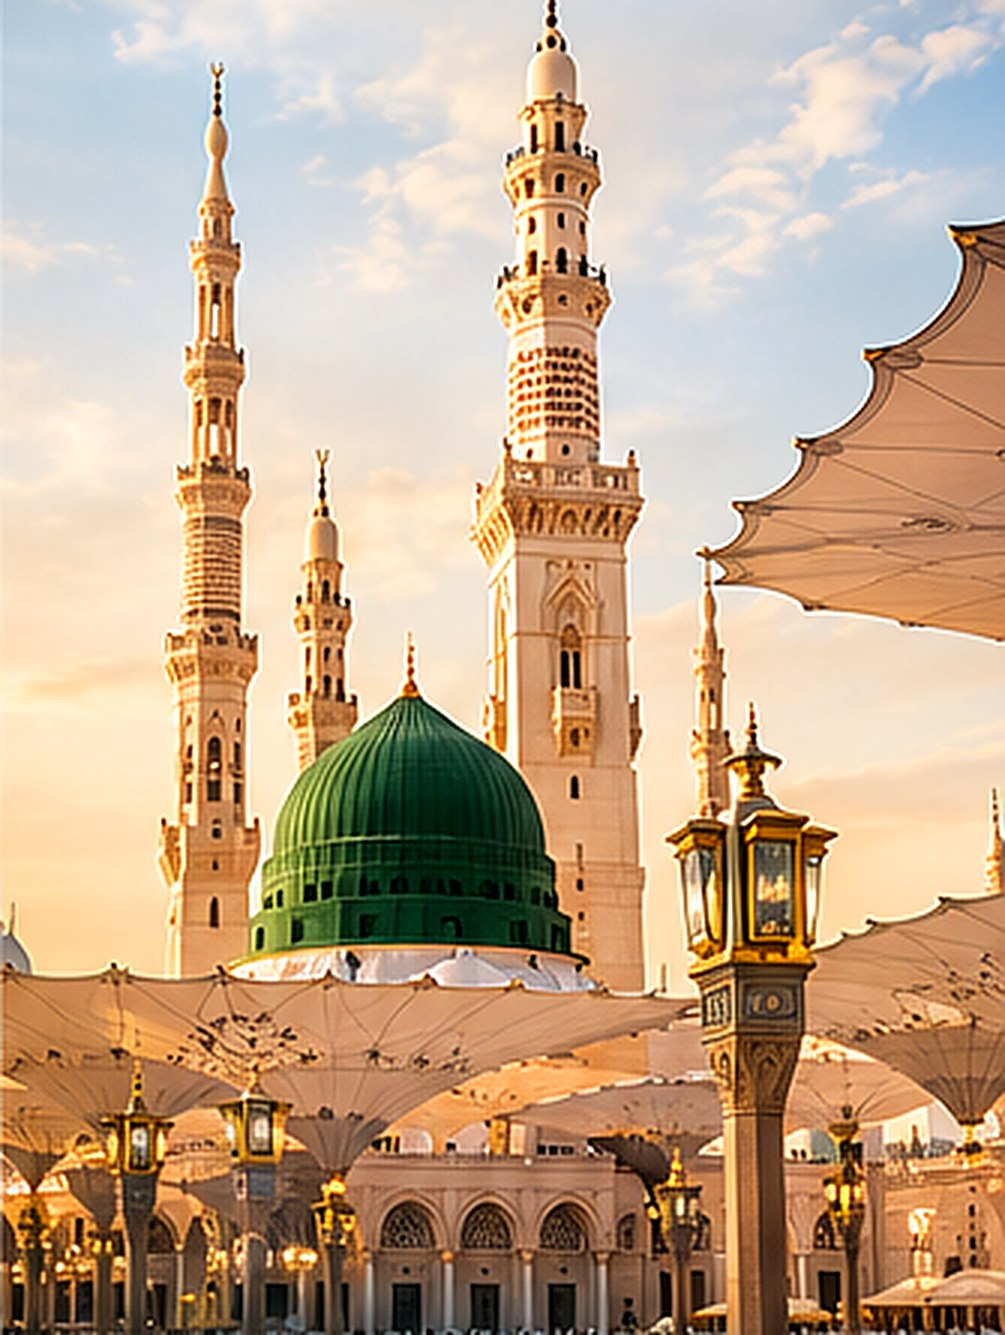
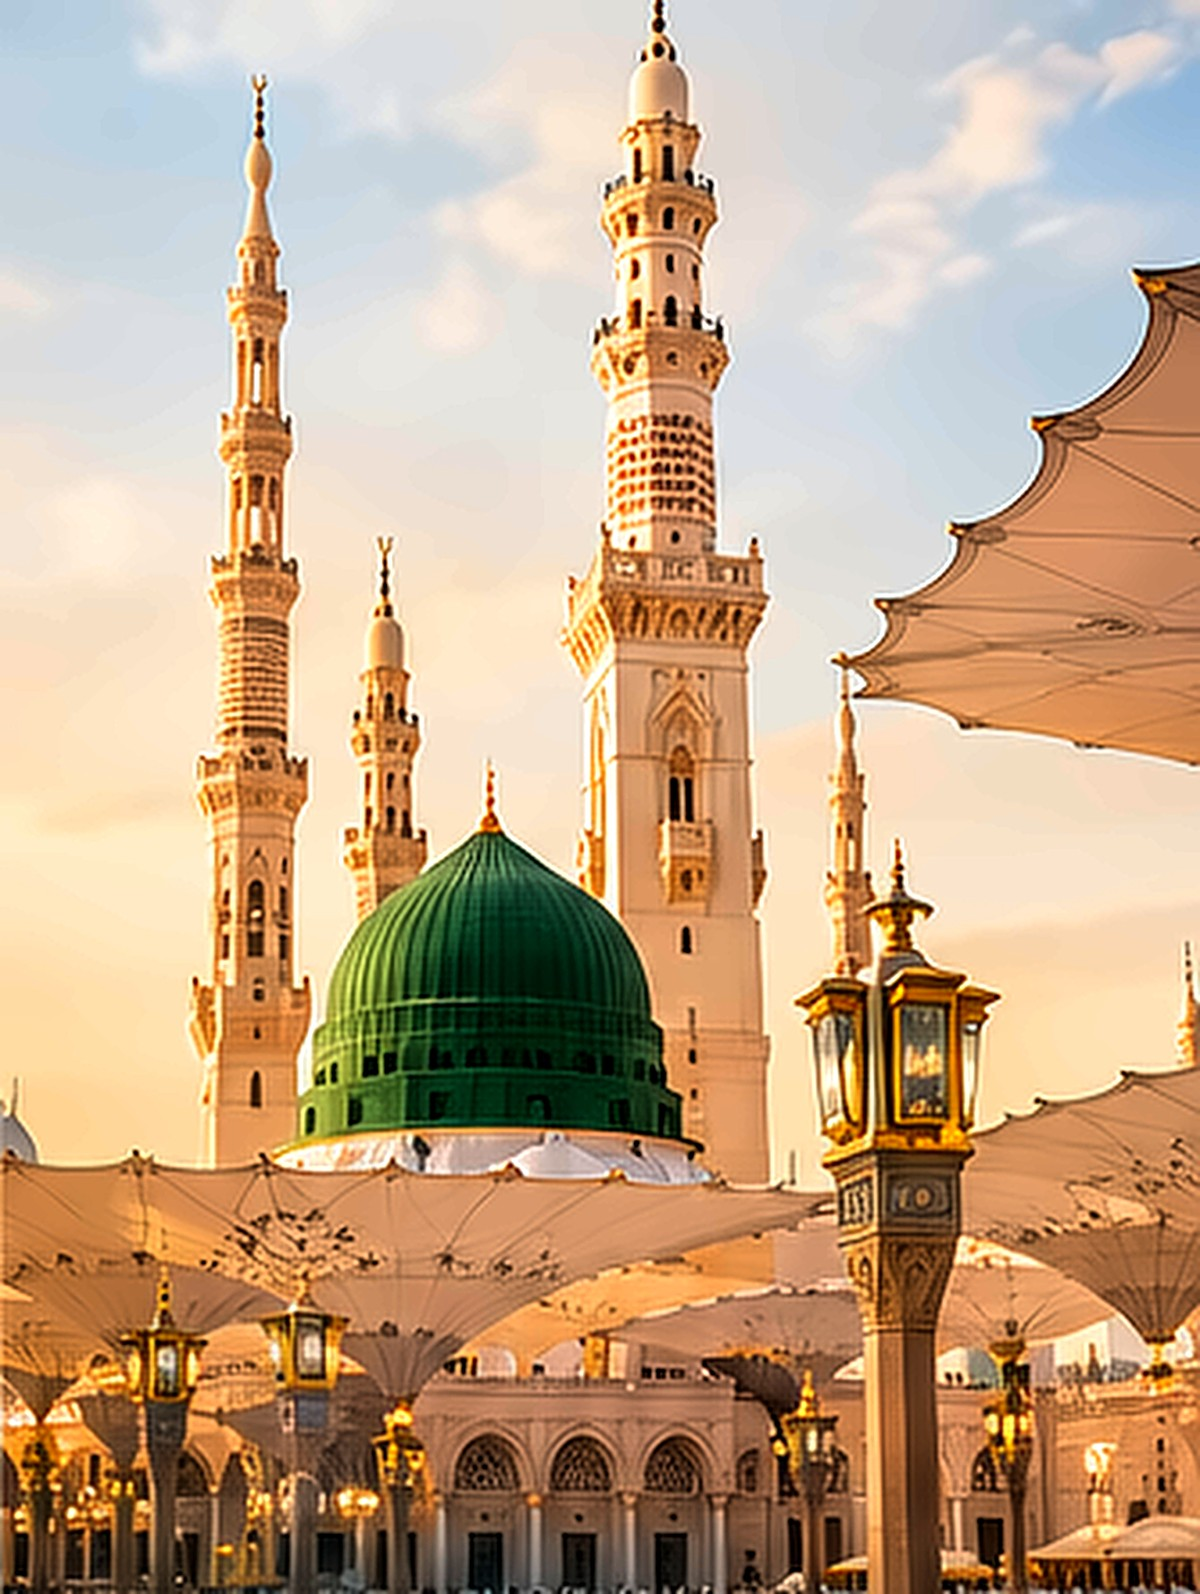
Haramain: sharper onboarding photos; no disclaimer text on screens
Claude-Session: https://claude.ai/code/session_01BkZE6zhJBZrWAPWUEPJ88r

diff --git a/privacy-policy.html b/privacy-policy.html
@@ -5,7 +5,7 @@ header{background:#fff;box-shadow:inset 0 -3px 0 #0E7A52}.w{max-width:720px;marg
 header .w{display:flex;align-items:center;gap:10px}header span{font-size:26px}header b{font-size:18px;letter-spacing:.08em;color:#0E7A52}
 h1{font-size:28px;line-height:1.2;margin:8px 0 4px}h2{font-size:18px;margin:28px 0 6px;color:#0E7A52}.muted{color:#5E6B63;font-size:14px}
 .note{background:#fff;border:1px solid #E3DED0;border-radius:14px;padding:14px 16px;margin:16px 0}a{color:#0E7A52;font-weight:600}ul{padding-left:20px}</style></head>
-<body><header><div class="w"><span>🕋</span><b>HARAMAIN</b></div></header><main class="w"><h1>Privacy Policy</h1><p class="muted">Last updated 22 October 2026</p><div class="note"><b>Independent app.</b> Haramain (haramain.pi) is an independent app for the Pi Network. It is not affiliated with the Saudi government, the Ministry of Hajj and Umrah, the General Authority for the Affairs of the Two Holy Mosques, or Pi Core Team.</div>
+<body><header><div class="w"><span>🕋</span><b>HARAMAIN</b></div></header><main class="w"><h1>Privacy Policy</h1><p class="muted">Last updated 22 October 2026</p>
 <h2>Saved only on your phone</h2><p>Your checklist, Tawaf and Sa'i counts, dhikr, prayer log, water log, health card, medications, emergency contacts, notes, documents, memories, budget and settings are saved in your browser's storage on this device. We do not receive them. Clearing the app's data deletes them.</p>
 <h2>Pi sign-in</h2><p>When you sign in with Pi, the Pi app shares your Pi username and a user ID with Haramain. We never see your passphrase, seed phrase or private keys.</p>
 <h2>Payments</h2><p>The optional Supporter Pass is a Pi payment made in the Pi app. Our server checks the payment with Pi Network (amount, status and transaction ID) before approving and completing it.</p>

diff --git a/index.html b/index.html
@@ -1088,7 +1088,7 @@ select.fi{cursor:pointer;}
 <script src="https://sdk.minepi.com/pi-sdk.js"></script>
 <script src="https://cdnjs.cloudflare.com/ajax/libs/html2canvas/1.4.1/html2canvas.min.js"></script>
 <link rel="stylesheet" href="haramain-pro.css?v=3">
-<link rel="stylesheet" href="haramain-onboarding.css?v=1">
+<link rel="stylesheet" href="haramain-onboarding.css?v=2">
 </head>
 <body>
 <div class="stripe"></div>
@@ -8097,7 +8097,6 @@ document.addEventListener('DOMContentLoaded',function(){
     <div class="modal-body">
       <div style="text-align:center;margin-bottom:.8rem"><div style="font-size:2.4rem">🕋</div><div style="font-size:1.3rem;font-weight:800;color:var(--grn);letter-spacing:.08em">HARAMAIN</div><div style="font-size:13px;color:var(--t3)">haramain.pi · Hajj &amp; Umrah companion</div></div>
       <p>Haramain helps pilgrims prepare for and perform Hajj and Umrah: prayer times for Makkah, step-by-step rituals, duas, Qibla, a checklist, health and emergency tools, and a place to ask questions.</p>
-      <p>It is an independent app built for Pi Browser. It is not affiliated with the Saudi government, the Ministry of Hajj and Umrah or the General Authority for the Two Holy Mosques.</p>
       <p>Contact: <a href="mailto:support.haramain@gmail.com" style="color:var(--grn);font-weight:700">support.haramain@gmail.com</a></p>
     </div>
   </div>
@@ -8161,6 +8160,6 @@ function orderQurbani(){
 <script src="pi-price-widget.js?v=1"></script>
 <script src="prayer-calc.js?v=1"></script>
 <script src="haramain-pro.js?v=5"></script>
-<script src="haramain-onboarding.js?v=1"></script>
+<script src="haramain-onboarding.js?v=2"></script>
 </body>
 </html>

diff --git a/haramain-onboarding.js b/haramain-onboarding.js
@@ -27,7 +27,7 @@
         '<div class="hob-bars" aria-hidden="true">' + STEPS.map(function () { return '<i><b></b></i>'; }).join('') + '</div>' +
         '<div class="hob-actions"><button type="button" class="hob-next" aria-label="Next">Next <span>→</span></button></div>' +
         '<div class="hob-final"><button type="button" class="hob-pi"><span>π</span> Sign in with Pi</button><button type="button" class="hob-guest">Continue as guest</button></div>' +
-        '<p class="hob-legal"><span class="hob-full">Independent app, not affiliated with the Saudi government or the Ministry of Hajj and Umrah.<br></span>© Haramain 2026</p>' +
+        '<p class="hob-legal">© Haramain 2026</p>' +
       '</div>';
     document.body.appendChild(el);
     document.documentElement.classList.add('hob-on');
